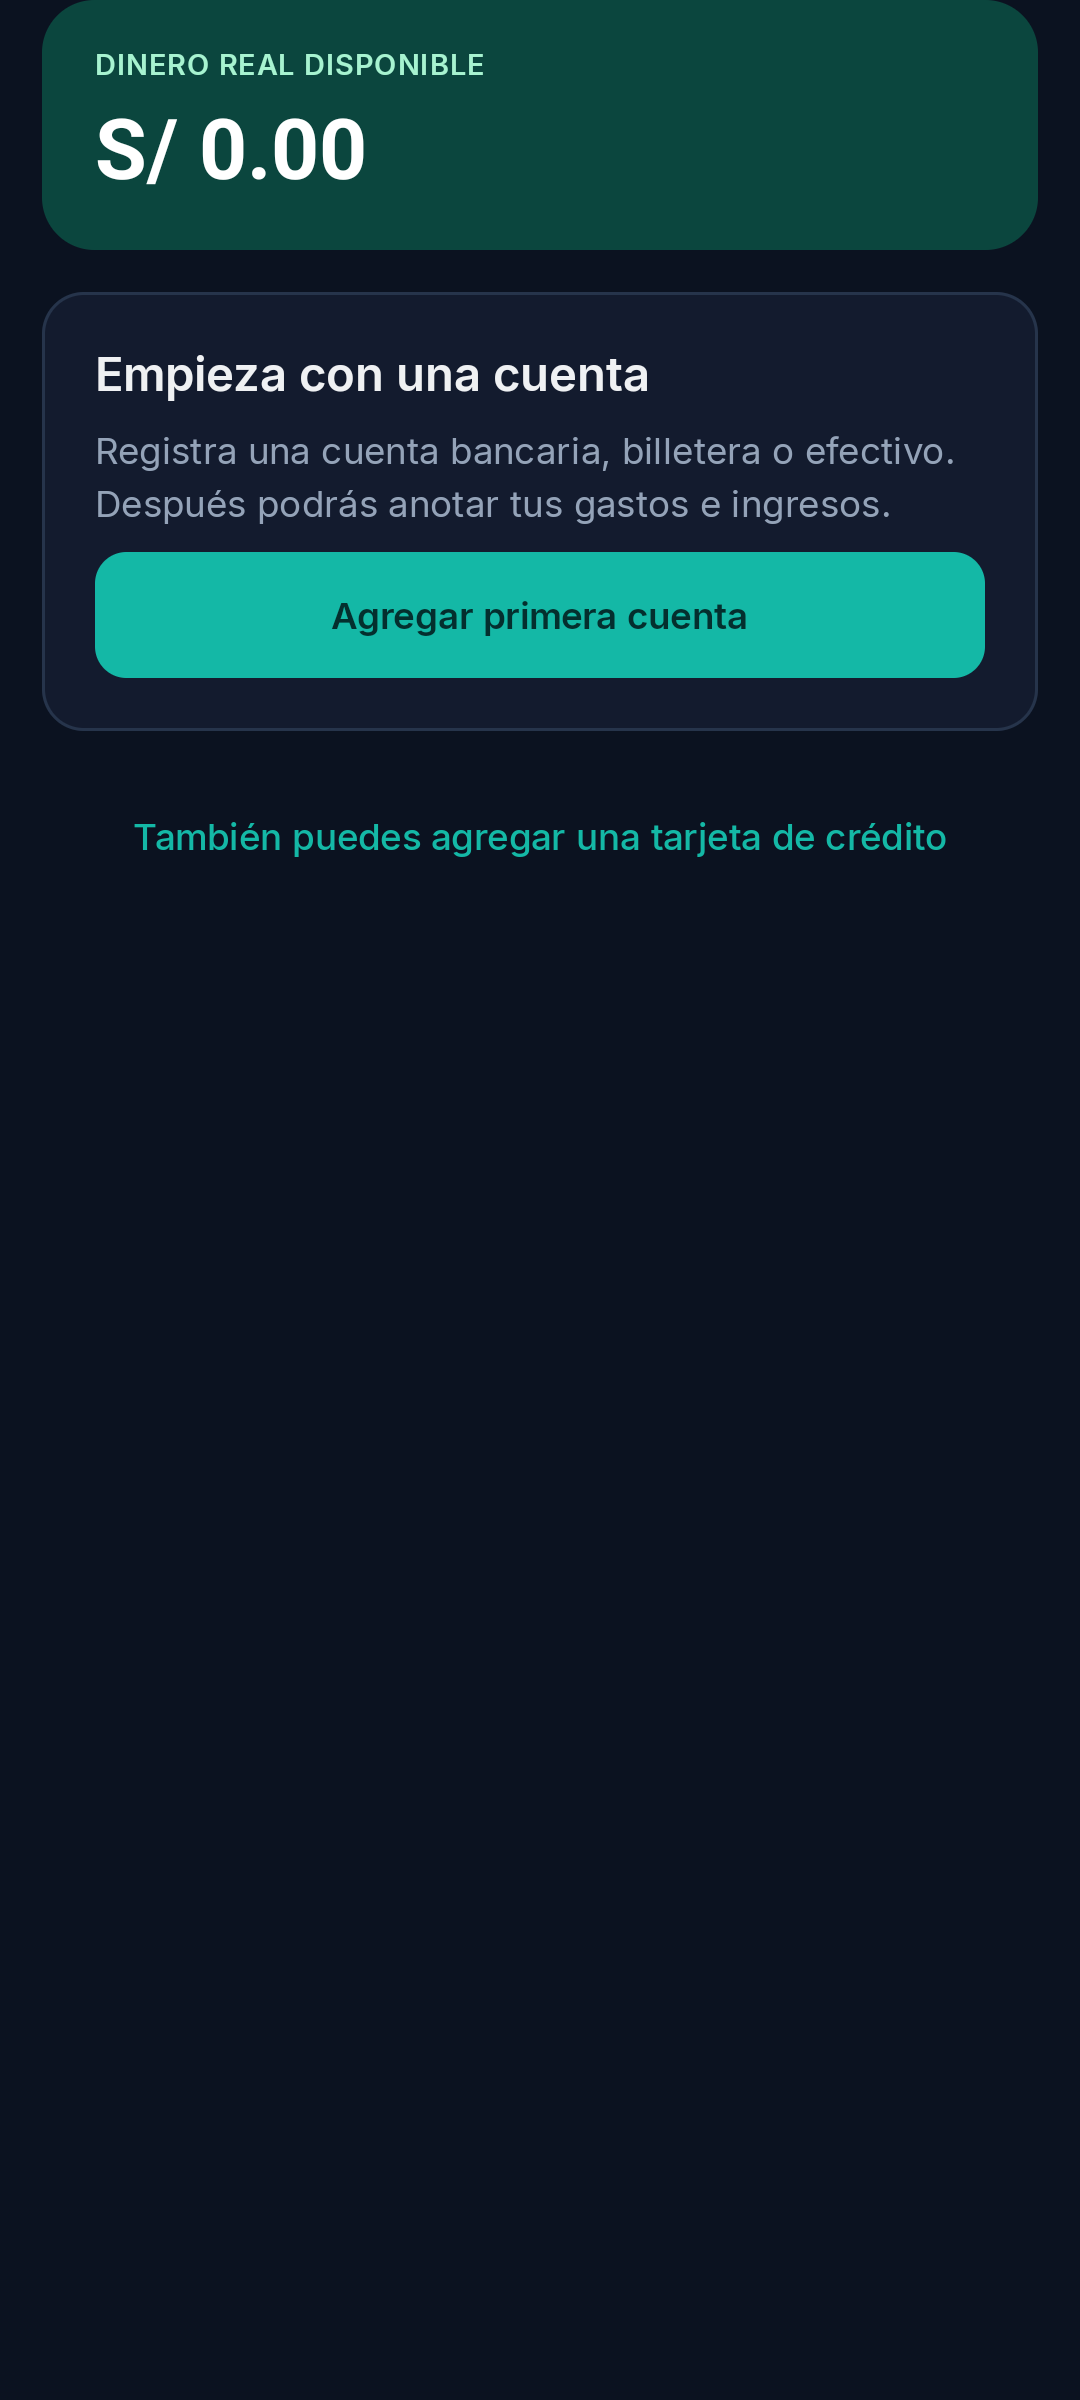
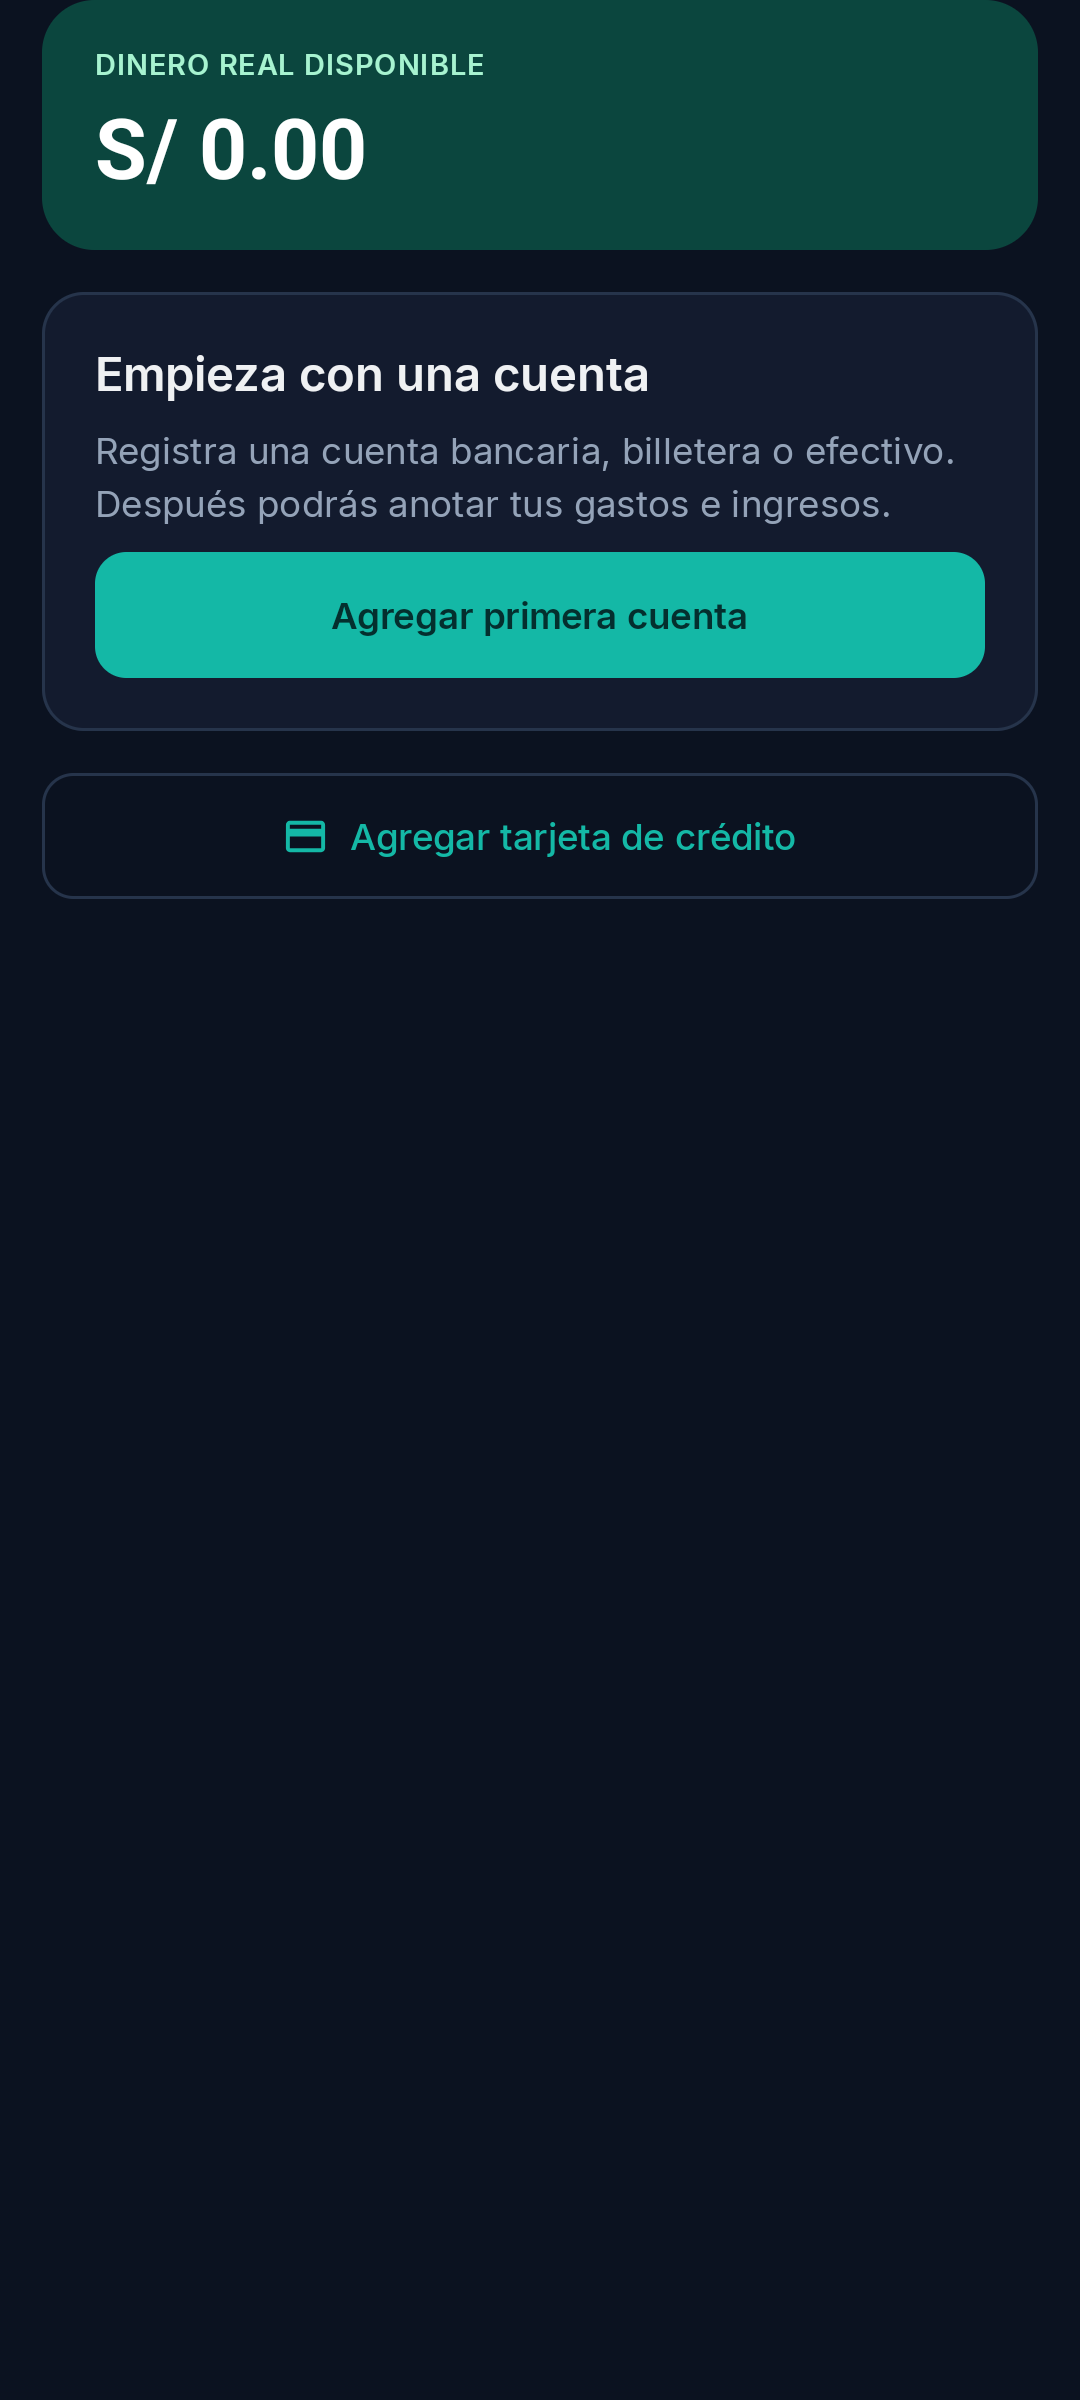
feat(dashboard): add secondary credit card action

Changed region(s): [[0.1222, 0.3438, 0.8861, 0.375]]

diff --git a/app/src/main/java/com/kipu/app/feature/accounts/presentation/dashboard/DashboardScreen.kt b/app/src/main/java/com/kipu/app/feature/accounts/presentation/dashboard/DashboardScreen.kt
@@ -64,6 +64,7 @@ import androidx.compose.material3.Icon
 import androidx.compose.material3.IconButton
 import androidx.compose.material3.MaterialTheme
 import androidx.compose.material3.LinearProgressIndicator
+import androidx.compose.material3.OutlinedButton
 import androidx.compose.material3.Scaffold
 import androidx.compose.material3.SnackbarHost
 import androidx.compose.material3.SnackbarHostState
@@ -458,16 +459,17 @@ internal fun EmptyDashboardContent(
         }
 
         item {
-            Row(
-                modifier = Modifier.fillMaxWidth(),
-                horizontalArrangement = Arrangement.Center,
+            OutlinedButton(
+                onClick = onNavigateToNewCard,
+                modifier = Modifier.fillMaxWidth().heightIn(min = 48.dp)
+                    .testTag("dashboard_empty_add_card"),
+                shape = RoundedCornerShape(12.dp),
+                border = BorderStroke(1.dp, emeraldColors.borderSubtle),
+                colors = ButtonDefaults.outlinedButtonColors(contentColor = emeraldColors.primaryDeep),
             ) {
-                TextButton(
-                    onClick = onNavigateToNewCard,
-                    modifier = Modifier.heightIn(min = 48.dp).testTag("dashboard_empty_add_card"),
-                ) {
-                    Text("También puedes agregar una tarjeta de crédito")
-                }
+                Icon(Icons.Default.CreditCard, contentDescription = null, modifier = Modifier.size(18.dp))
+                Spacer(modifier = Modifier.width(8.dp))
+                Text("Agregar tarjeta de crédito")
             }
         }
 

diff --git a/app/src/androidTest/java/com/kipu/app/feature/accounts/presentation/dashboard/DashboardEmptyStateTest.kt b/app/src/androidTest/java/com/kipu/app/feature/accounts/presentation/dashboard/DashboardEmptyStateTest.kt
@@ -40,7 +40,8 @@ class DashboardEmptyStateTest {
         var navigatedToCardCreation = false
         setEmptyDashboard(onNavigateToNewCard = { navigatedToCardCreation = true })
 
-        compose.onNodeWithText("También puedes agregar una tarjeta de crédito")
+        compose.onNodeWithText("Agregar tarjeta de crédito").assertIsDisplayed()
+        compose.onNodeWithTag("dashboard_empty_add_card")
             .assertIsDisplayed()
             .performClick()
 
